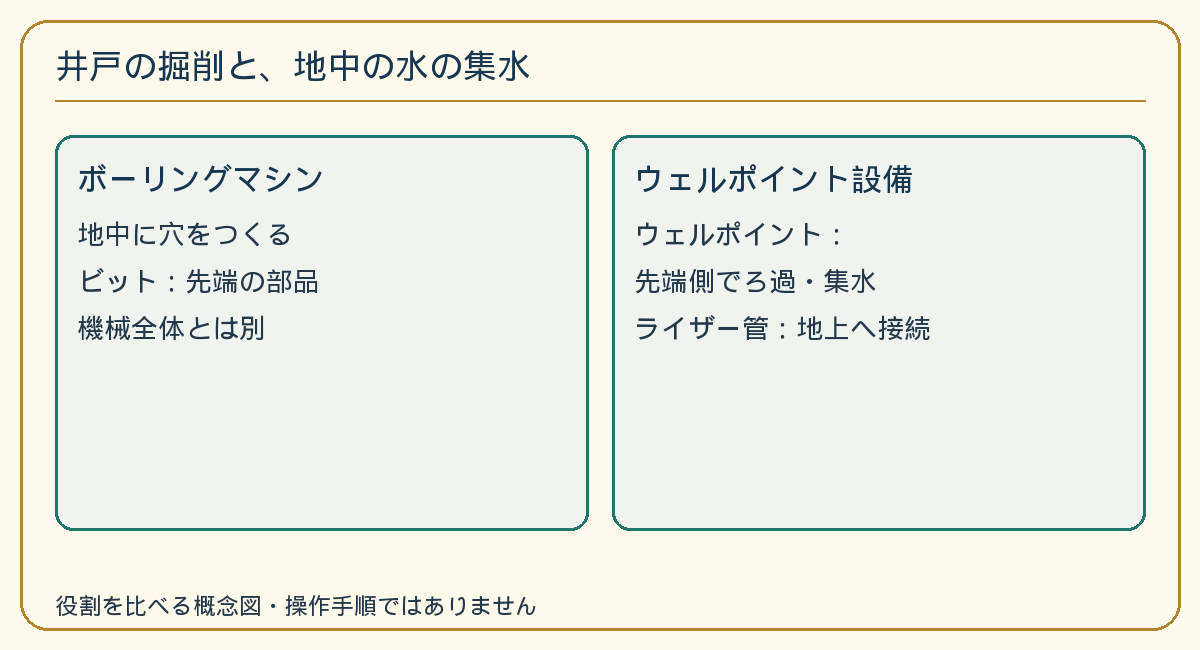
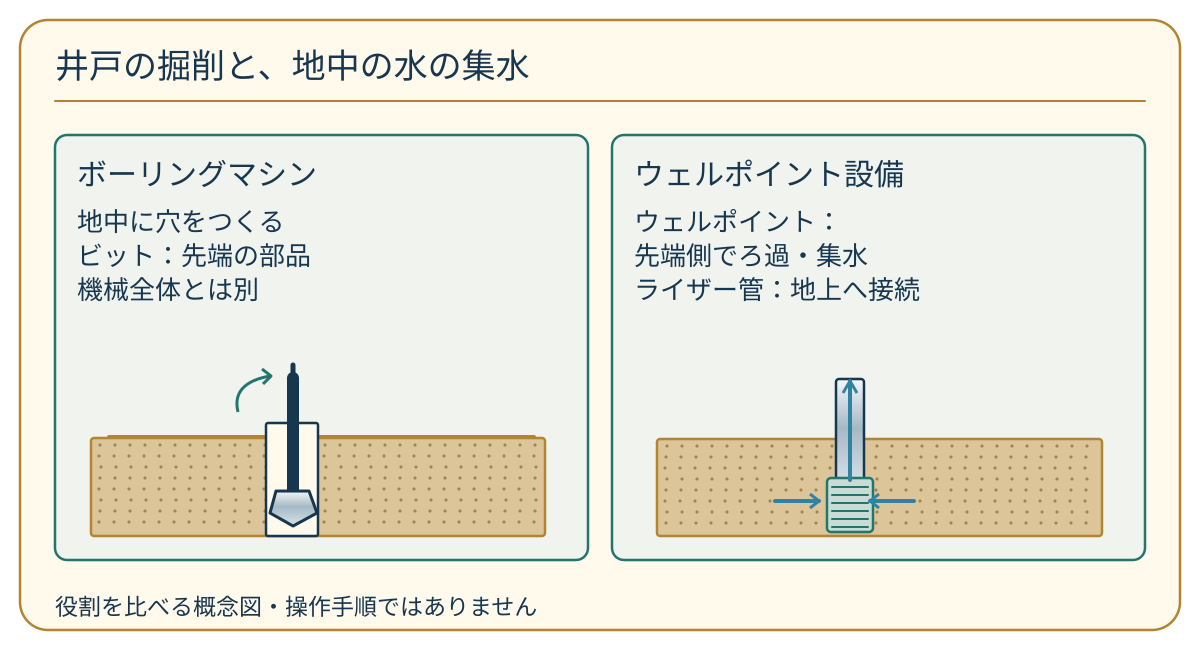
fix(kensetsu): illustrate civil drilling planting and earthwork distinctions

diff --git a/scripts/kensetsu-authoring/draw-royal-differential-groupC02.py b/scripts/kensetsu-authoring/draw-royal-differential-groupC02.py
@@ -1,0 +1,37 @@
+"""Civil cross-sections and material/tool relations; no site design or operation."""
+from pathlib import Path
+from PIL import ImageFont
+base=Path(__file__).with_name('draw-royal-differential-groupC01.py').read_text().split('# Material retained')[0]
+base=base.replace("in ['c3','c5','c6']", "in ['c7','c8','c9']")
+base=base.replace("for j,label in enumerate(labels):s+=text(x+22,234+43*j,label,26)","wrapped=[]\n  for label in labels:\n   part=''\n   for char in label:\n    if part and font.getlength(part+char)>w-44:wrapped.append(part);part=''\n    part+=char\n   wrapped.append(part)\n  assert len(wrapped)<=4\n  for j,label in enumerate(wrapped):s+=text(x+22,231+34*j,label,26)")
+exec(base)
+font=ImageFont.truetype('/usr/share/fonts/opentype/noto/NotoSansCJK-Regular.ttc',26)
+O=R/'docs/ssw-workspace/kensetsu/royal-differential-20261107/groupC02';O.mkdir(parents=True,exist_ok=True)
+# Ground/rod/bit relationship separate from screened intake and riser.
+b=soil(91,438,454,98)+line(109,437,534,437,G,4)+rect(266,423,52,113,'#FFFAEC',N,2)+line(293,378,293,495,N,12)
+b+=path('M276 491 H309 L317 513 L293 526 L270 513 Z','url(#metal)')+line(293,365,293,384,N,5)
+b+=path('M238 412 Q231 383 270 376','none',T,3)+path('M262 369 L271 376 L263 384','none',T,3)
+b+=soil(657,439,445,97)+rect(836,379,28,109,'url(#metal)',N,3)+rect(827,478,46,54,'#C7DCD5',T,4)
+for y in range(487,529,8):b+=line(832,y,868,y,T,2)
+for x,dx in [(775,1),(914,-1)]:
+ b+=line(x,501,x+dx*44,501,'#3183A2',4)+path(f'M{x+dx*35} 494 L{x+dx*44} 501 L{x+dx*35} 508','none','#3183A2',3)
+b+=line(850,480,850,381,'#3183A2',4)+path('M843 393 L850 381 L857 393','none','#3183A2',3)
+save('c7',b)
+# Cutting contact, root/soil contact and string reference are independent targets.
+b=path('M108 500 L199 399 L177 449 L253 496','none',N,6)+path('M154 451 Q140 416 168 403 Q200 411 181 440','none',G,6)+path('M184 450 Q207 425 223 442 Q237 463 211 477','none',G,6)
+b+=line(152,405,245,437,'#756540',7)+path('M224 431 Q245 406 259 426','none',T,3)
+b+=soil(463,472,254,54)+path('M483 477 Q533 451 570 480 Q610 495 660 485','none','#806340',5)+line(566,373,566,455,N,6)+path('M549 449 H583 L578 495 L554 497 Z','url(#metal)')
+b+=line(672,384,672,472,G,6)+rect(640,474,62,12,'#D2BD91',N,2)
+b+=soil(835,492,263,36)+line(866,414,866,520,G,5)+line(1060,414,1060,520,G,5)+line(866,431,1060,431,T,3)
+b+=path('M919 460 Q932 429 950 451 Q961 476 937 480','none',N,4)+f'<ellipse cx="921" cy="462" rx="5" ry="8" fill="none" stroke="{G}" stroke-width="2"/>'
+save('c8',b)
+# Prohibited undercut, slope shoulder and layer-by-layer fill are schematic only.
+b=path('M92 397 H312 V438 H261 V468 H312 V526 H92 Z','#DCC699',G,3)+path('M118 411 L287 511 M287 411 L118 511','none','#B34F40',7)
+b+=path('M464 416 H580 L691 514 H722','none',G,5)+path('M464 417 H580 L691 515 H464 Z','#DCC699',G,2)+f'<circle cx="580" cy="417" r="8" fill="#E5C47C" stroke="{N}" stroke-width="2"/>'
+b+=line(514,382,581,407,N,2)+path('M579 401 L581 407 L575 410','none',N,2)
+b+=path('M837 392 V528 H1107 V392','none',N,4)
+for y in [490,460,430]:
+ b+=soil(844,y,256,30)+line(849,y+29,1095,y+29,T,3)
+b+=line(930,377,1014,377,N,5)+line(970,377,970,404,N,3)+path('M962 396 L970 404 L978 396','none',N,3)
+save('c9',b)
+print('Wrote c7/c8/c9 pictorial cross-sections,1200x650; original Japanese text retained')
